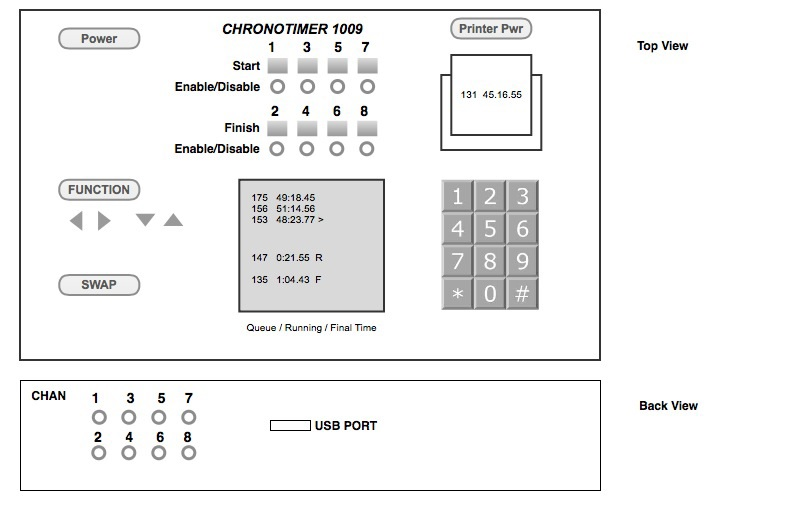
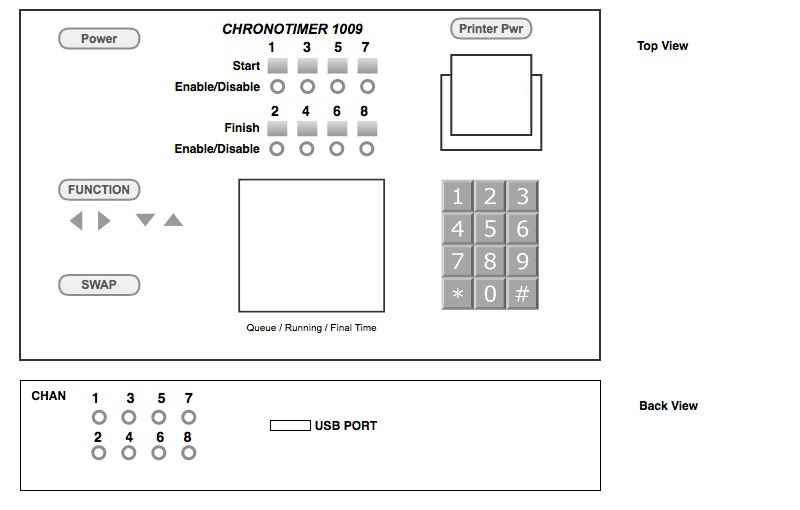
Updated PNG image to block out text, added rest of buttons

Changed region(s): [[0.2812, 0.3529, 0.5, 0.6176], [0.5625, 0.1765, 0.6562, 0.2059]]

diff --git a/ChronoGUI/GUIwithBuilder/XXGUI/src/ChronoTimer.java b/ChronoGUI/GUIwithBuilder/XXGUI/src/ChronoTimer.java
@@ -24,6 +24,9 @@ import javax.swing.border.BevelBorder;
 import java.awt.Font;
 import javax.swing.JToggleButton;
 import javax.swing.JRadioButton;
+import javax.swing.JTextArea;
+import java.awt.SystemColor;
+import javax.swing.UIManager;
 
 public class ChronoTimer extends JFrame {
 
@@ -60,7 +63,7 @@ public class ChronoTimer extends JFrame {
 		JLabel lblNewLabel = new JLabel("New label");
 		lblNewLabel.setBounds(5, 5, 615, 510);
 		lblNewLabel.setOpaque(true);
-		lblNewLabel.setIcon(new ImageIcon("C:\\Users\\Morgan\\workspace\\XXGUI\\src\\chrono.jpg"));
+		lblNewLabel.setIcon(new ImageIcon("C:\\Users\\Dave\\git\\chronoGui\\ChronoGUI\\GUIwithBuilder\\XXGUI\\chrono.jpg"));
 		contentPane.add(lblNewLabel);
 		
 		JButton btn1 = new JButton("1");
@@ -189,5 +192,108 @@ public class ChronoTimer extends JFrame {
 		enable7.setBackground(Color.WHITE);
 		enable7.setBounds(362, 80, 30, 25);
 		contentPane.add(enable7);
+		
+		JButton btnPower = new JButton("Power");
+		btnPower.setFont(new Font("Tahoma", Font.PLAIN, 13));
+		btnPower.setBounds(60, 29, 91, 30);
+		contentPane.add(btnPower);
+		
+		JButton btnFunction = new JButton("FUNCTION");
+		btnFunction.setFont(new Font("Tahoma", Font.PLAIN, 13));
+		btnFunction.setBounds(48, 185, 107, 25);
+		contentPane.add(btnFunction);
+		
+		JButton btnSwap = new JButton("SWAP");
+		btnSwap.setFont(new Font("Tahoma", Font.PLAIN, 13));
+		btnSwap.setBounds(62, 276, 89, 27);
+		contentPane.add(btnSwap);
+		
+		JButton btnPrinterPwr = new JButton("Printer Pwr");
+		btnPrinterPwr.setFont(new Font("Tahoma", Font.PLAIN, 13));
+		btnPrinterPwr.setBounds(444, 21, 108, 25);
+		contentPane.add(btnPrinterPwr);
+		
+		JTextArea mainDisplay = new JTextArea();
+		mainDisplay.setText("");
+		mainDisplay.setBounds(243, 183, 149, 135);
+		contentPane.add(mainDisplay);
+		
+		JTextArea txtrPrinterarea = new JTextArea();
+		txtrPrinterarea.setText("");
+		txtrPrinterarea.setBounds(454, 60, 84, 80);
+		contentPane.add(txtrPrinterarea);
+		
+		JRadioButton chan1 = new JRadioButton("");
+		chan1.setBackground(Color.WHITE);
+		chan1.setBounds(94, 409, 28, 25);
+		contentPane.add(chan1);
+		
+		JRadioButton chan3 = new JRadioButton("");
+		chan3.setBackground(Color.WHITE);
+		chan3.setBounds(124, 409, 26, 25);
+		contentPane.add(chan3);
+		
+		JRadioButton chan5 = new JRadioButton("");
+		chan5.setBackground(Color.WHITE);
+		chan5.setBounds(154, 409, 24, 25);
+		contentPane.add(chan5);
+		
+		JRadioButton chan7 = new JRadioButton("");
+		chan7.setBackground(Color.WHITE);
+		chan7.setBounds(185, 409, 31, 25);
+		contentPane.add(chan7);
+		
+		JRadioButton chan2 = new JRadioButton("");
+		chan2.setBackground(Color.WHITE);
+		chan2.setBounds(91, 447, 24, 25);
+		contentPane.add(chan2);
+		
+		JRadioButton chan4 = new JRadioButton("");
+		chan4.setBackground(Color.WHITE);
+		chan4.setBounds(124, 447, 27, 25);
+		contentPane.add(chan4);
+		
+		JRadioButton chan6 = new JRadioButton("");
+		chan6.setBackground(Color.WHITE);
+		chan6.setBounds(154, 447, 26, 25);
+		contentPane.add(chan6);
+		
+		JRadioButton chan8 = new JRadioButton("");
+		chan8.setBackground(Color.WHITE);
+		chan8.setBounds(185, 447, 26, 25);
+		contentPane.add(chan8);
+		
+		JButton start1 = new JButton("");
+		start1.setBackground(UIManager.getColor("Button.background"));
+		start1.setBounds(270, 62, 22, 15);
+		contentPane.add(start1);
+		
+		JButton start3 = new JButton("");
+		start3.setBounds(304, 62, 20, 17);
+		contentPane.add(start3);
+		
+		JButton start5 = new JButton("");
+		start5.setBounds(330, 64, 23, 16);
+		contentPane.add(start5);
+		
+		JButton start7 = new JButton("");
+		start7.setBounds(360, 62, 23, 18);
+		contentPane.add(start7);
+		
+		JButton finish2 = new JButton("");
+		finish2.setBounds(273, 126, 18, 14);
+		contentPane.add(finish2);
+		
+		JButton finish4 = new JButton("");
+		finish4.setBounds(302, 125, 20, 18);
+		contentPane.add(finish4);
+		
+		JButton finish6 = new JButton("");
+		finish6.setBounds(330, 125, 25, 16);
+		contentPane.add(finish6);
+		
+		JButton finish8 = new JButton("");
+		finish8.setBounds(362, 125, 23, 18);
+		contentPane.add(finish8);
 	}
 }
